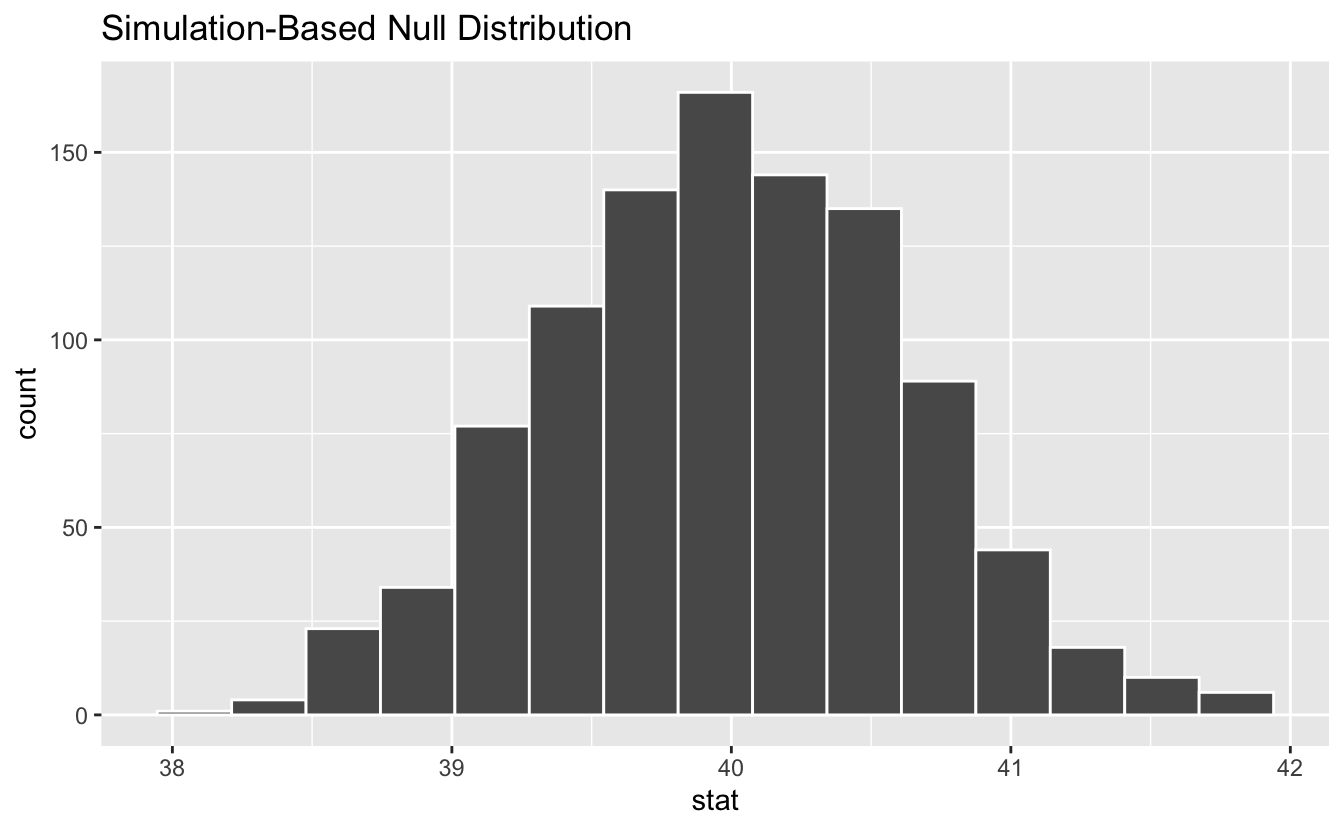
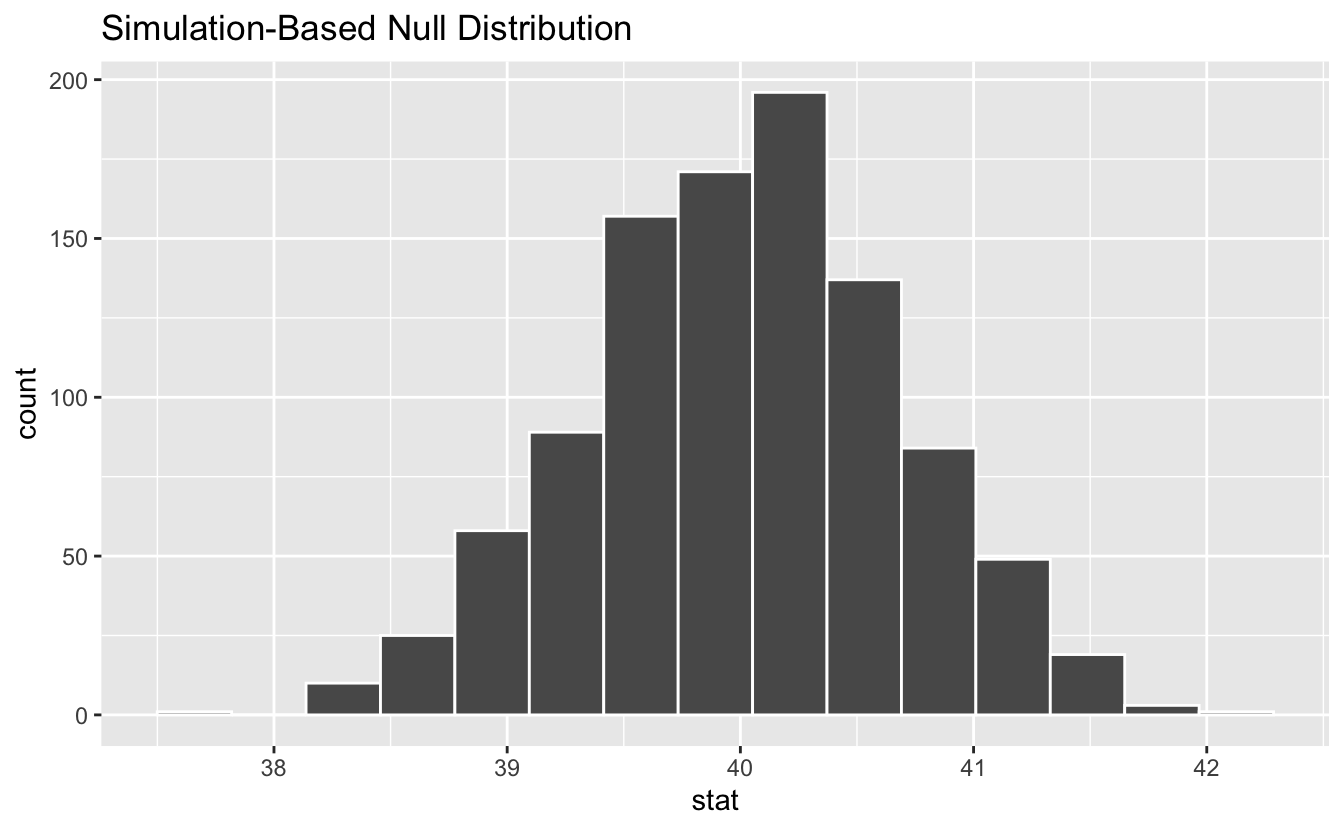
add notes on theoretical methods

diff --git a/content/blog/infer-1-0-0/index.md b/content/blog/infer-1-0-0/index.md
@@ -15,7 +15,7 @@ photo:
 
 categories: [package] 
 tags: [tidymodels]
-rmd_hash: dbb82b02b1cc1daa
+rmd_hash: f3a2ce2335b6bbe8
 
 ---
 
@@ -261,16 +261,16 @@ Continuing on with our example above, about the average number of hours worked a
 <span class='c'>#&gt; <span style='color: #555555;'># Groups:   replicate [1,000]</span></span>
 <span class='c'>#&gt;    replicate hours</span>
 <span class='c'>#&gt;        <span style='color: #555555; font-style: italic;'>&lt;int&gt;</span> <span style='color: #555555; font-style: italic;'>&lt;dbl&gt;</span></span>
-<span class='c'>#&gt; <span style='color: #555555;'> 1</span>         1  38.6</span>
-<span class='c'>#&gt; <span style='color: #555555;'> 2</span>         1  68.6</span>
-<span class='c'>#&gt; <span style='color: #555555;'> 3</span>         1  35.6</span>
-<span class='c'>#&gt; <span style='color: #555555;'> 4</span>         1  48.6</span>
-<span class='c'>#&gt; <span style='color: #555555;'> 5</span>         1  70.6</span>
-<span class='c'>#&gt; <span style='color: #555555;'> 6</span>         1  38.6</span>
-<span class='c'>#&gt; <span style='color: #555555;'> 7</span>         1  21.6</span>
-<span class='c'>#&gt; <span style='color: #555555;'> 8</span>         1  16.6</span>
-<span class='c'>#&gt; <span style='color: #555555;'> 9</span>         1  38.6</span>
-<span class='c'>#&gt; <span style='color: #555555;'>10</span>         1  78.6</span>
+<span class='c'>#&gt; <span style='color: #555555;'> 1</span>         1 40.6 </span>
+<span class='c'>#&gt; <span style='color: #555555;'> 2</span>         1 38.6 </span>
+<span class='c'>#&gt; <span style='color: #555555;'> 3</span>         1 38.6 </span>
+<span class='c'>#&gt; <span style='color: #555555;'> 4</span>         1 38.6 </span>
+<span class='c'>#&gt; <span style='color: #555555;'> 5</span>         1  8.62</span>
+<span class='c'>#&gt; <span style='color: #555555;'> 6</span>         1 78.6 </span>
+<span class='c'>#&gt; <span style='color: #555555;'> 7</span>         1 38.6 </span>
+<span class='c'>#&gt; <span style='color: #555555;'> 8</span>         1 38.6 </span>
+<span class='c'>#&gt; <span style='color: #555555;'> 9</span>         1  1.62</span>
+<span class='c'>#&gt; <span style='color: #555555;'>10</span>         1 38.6 </span>
 <span class='c'>#&gt; <span style='color: #555555;'># … with 499,990 more rows</span></span></code></pre>
 
 </div>
@@ -292,16 +292,16 @@ To generate a null distribution for the independence of two variables, we could 
 <span class='c'>#&gt; <span style='color: #555555;'># Groups:   replicate [1,000]</span></span>
 <span class='c'>#&gt;    partyid   age replicate</span>
 <span class='c'>#&gt;    <span style='color: #555555; font-style: italic;'>&lt;fct&gt;</span>   <span style='color: #555555; font-style: italic;'>&lt;dbl&gt;</span>     <span style='color: #555555; font-style: italic;'>&lt;int&gt;</span></span>
-<span class='c'>#&gt; <span style='color: #555555;'> 1</span> dem        36         1</span>
-<span class='c'>#&gt; <span style='color: #555555;'> 2</span> dem        34         1</span>
-<span class='c'>#&gt; <span style='color: #555555;'> 3</span> dem        24         1</span>
+<span class='c'>#&gt; <span style='color: #555555;'> 1</span> rep        36         1</span>
+<span class='c'>#&gt; <span style='color: #555555;'> 2</span> ind        34         1</span>
+<span class='c'>#&gt; <span style='color: #555555;'> 3</span> ind        24         1</span>
 <span class='c'>#&gt; <span style='color: #555555;'> 4</span> dem        42         1</span>
-<span class='c'>#&gt; <span style='color: #555555;'> 5</span> dem        31         1</span>
-<span class='c'>#&gt; <span style='color: #555555;'> 6</span> ind        32         1</span>
-<span class='c'>#&gt; <span style='color: #555555;'> 7</span> rep        48         1</span>
-<span class='c'>#&gt; <span style='color: #555555;'> 8</span> rep        36         1</span>
-<span class='c'>#&gt; <span style='color: #555555;'> 9</span> rep        30         1</span>
-<span class='c'>#&gt; <span style='color: #555555;'>10</span> rep        33         1</span>
+<span class='c'>#&gt; <span style='color: #555555;'> 5</span> rep        31         1</span>
+<span class='c'>#&gt; <span style='color: #555555;'> 6</span> dem        32         1</span>
+<span class='c'>#&gt; <span style='color: #555555;'> 7</span> ind        48         1</span>
+<span class='c'>#&gt; <span style='color: #555555;'> 8</span> ind        36         1</span>
+<span class='c'>#&gt; <span style='color: #555555;'> 9</span> ind        30         1</span>
+<span class='c'>#&gt; <span style='color: #555555;'>10</span> ind        33         1</span>
 <span class='c'>#&gt; <span style='color: #555555;'># … with 499,990 more rows</span></span></code></pre>
 
 </div>
@@ -320,16 +320,16 @@ Depending on whether you're carrying out computation-based inference or theory-b
 <span class='c'>#&gt; <span style='color: #555555;'># A tibble: 1,000 x 2</span></span>
 <span class='c'>#&gt;    replicate  stat</span>
 <span class='c'>#&gt;        <span style='color: #555555; font-style: italic;'>&lt;int&gt;</span> <span style='color: #555555; font-style: italic;'>&lt;dbl&gt;</span></span>
-<span class='c'>#&gt; <span style='color: #555555;'> 1</span>         1  39.5</span>
-<span class='c'>#&gt; <span style='color: #555555;'> 2</span>         2  41.7</span>
-<span class='c'>#&gt; <span style='color: #555555;'> 3</span>         3  39.3</span>
-<span class='c'>#&gt; <span style='color: #555555;'> 4</span>         4  39.9</span>
-<span class='c'>#&gt; <span style='color: #555555;'> 5</span>         5  41.0</span>
+<span class='c'>#&gt; <span style='color: #555555;'> 1</span>         1  40.1</span>
+<span class='c'>#&gt; <span style='color: #555555;'> 2</span>         2  40.2</span>
+<span class='c'>#&gt; <span style='color: #555555;'> 3</span>         3  40.9</span>
+<span class='c'>#&gt; <span style='color: #555555;'> 4</span>         4  40.6</span>
+<span class='c'>#&gt; <span style='color: #555555;'> 5</span>         5  40.6</span>
 <span class='c'>#&gt; <span style='color: #555555;'> 6</span>         6  40.0</span>
-<span class='c'>#&gt; <span style='color: #555555;'> 7</span>         7  39.2</span>
-<span class='c'>#&gt; <span style='color: #555555;'> 8</span>         8  39.8</span>
-<span class='c'>#&gt; <span style='color: #555555;'> 9</span>         9  40.5</span>
-<span class='c'>#&gt; <span style='color: #555555;'>10</span>        10  40.4</span>
+<span class='c'>#&gt; <span style='color: #555555;'> 7</span>         7  39.6</span>
+<span class='c'>#&gt; <span style='color: #555555;'> 8</span>         8  40.1</span>
+<span class='c'>#&gt; <span style='color: #555555;'> 9</span>         9  41.3</span>
+<span class='c'>#&gt; <span style='color: #555555;'>10</span>        10  42.1</span>
 <span class='c'>#&gt; <span style='color: #555555;'># … with 990 more rows</span></span></code></pre>
 
 </div>
@@ -346,16 +346,16 @@ The output of [`calculate()`](https://infer.tidymodels.org/reference/calculate.h
 <span class='c'>#&gt; <span style='color: #555555;'># A tibble: 1,000 x 2</span></span>
 <span class='c'>#&gt;    replicate    stat</span>
 <span class='c'>#&gt;        <span style='color: #555555; font-style: italic;'>&lt;int&gt;</span>   <span style='color: #555555; font-style: italic;'>&lt;dbl&gt;</span></span>
-<span class='c'>#&gt; <span style='color: #555555;'> 1</span>         1  0.023<span style='text-decoration: underline;'>9</span></span>
-<span class='c'>#&gt; <span style='color: #555555;'> 2</span>         2 -<span style='color: #BB0000;'>1.05</span>  </span>
-<span class='c'>#&gt; <span style='color: #555555;'> 3</span>         3 -<span style='color: #BB0000;'>1.25</span>  </span>
-<span class='c'>#&gt; <span style='color: #555555;'> 4</span>         4  0.632 </span>
-<span class='c'>#&gt; <span style='color: #555555;'> 5</span>         5  0.421 </span>
-<span class='c'>#&gt; <span style='color: #555555;'> 6</span>         6  2.96  </span>
-<span class='c'>#&gt; <span style='color: #555555;'> 7</span>         7 -<span style='color: #BB0000;'>1.14</span>  </span>
-<span class='c'>#&gt; <span style='color: #555555;'> 8</span>         8 -<span style='color: #BB0000;'>0.999</span> </span>
-<span class='c'>#&gt; <span style='color: #555555;'> 9</span>         9 -<span style='color: #BB0000;'>0.620</span> </span>
-<span class='c'>#&gt; <span style='color: #555555;'>10</span>        10 -<span style='color: #BB0000;'>1.65</span>  </span>
+<span class='c'>#&gt; <span style='color: #555555;'> 1</span>         1  0.200 </span>
+<span class='c'>#&gt; <span style='color: #555555;'> 2</span>         2  1.55  </span>
+<span class='c'>#&gt; <span style='color: #555555;'> 3</span>         3  1.85  </span>
+<span class='c'>#&gt; <span style='color: #555555;'> 4</span>         4  2.82  </span>
+<span class='c'>#&gt; <span style='color: #555555;'> 5</span>         5 -<span style='color: #BB0000;'>0.046</span><span style='color: #BB0000; text-decoration: underline;'>6</span></span>
+<span class='c'>#&gt; <span style='color: #555555;'> 6</span>         6 -<span style='color: #BB0000;'>0.434</span> </span>
+<span class='c'>#&gt; <span style='color: #555555;'> 7</span>         7  1.11  </span>
+<span class='c'>#&gt; <span style='color: #555555;'> 8</span>         8  0.385 </span>
+<span class='c'>#&gt; <span style='color: #555555;'> 9</span>         9 -<span style='color: #BB0000;'>1.12</span>  </span>
+<span class='c'>#&gt; <span style='color: #555555;'>10</span>        10  0.465 </span>
 <span class='c'>#&gt; <span style='color: #555555;'># … with 990 more rows</span></span></code></pre>
 
 </div>
@@ -419,11 +419,11 @@ Notice that infer has also shaded the regions of the null distribution that are 
 <span class='c'>#&gt; <span style='color: #555555;'># A tibble: 1 x 1</span></span>
 <span class='c'>#&gt;   p_value</span>
 <span class='c'>#&gt;     <span style='color: #555555; font-style: italic;'>&lt;dbl&gt;</span></span>
-<span class='c'>#&gt; <span style='color: #555555;'>1</span>   0.034</span></code></pre>
+<span class='c'>#&gt; <span style='color: #555555;'>1</span>   0.036</span></code></pre>
 
 </div>
 
-It looks like the p-value is 0.034, which is pretty small---if the true mean number of hours worked per week was actually 40, the probability of our sample mean being this far (1.382 hours) from 40 would be 0.034. This may or may not be statistically significantly different, depending on the significance level $\alpha$ you decided on *before* you ran this analysis. If you had set $\alpha = .05$, then this difference would be statistically significant, but if you had set $\alpha = .01$, then it would not be.
+It looks like the p-value is 0.036, which is pretty small---if the true mean number of hours worked per week was actually 40, the probability of our sample mean being this far (1.382 hours) from 40 would be 0.036. This may or may not be statistically significantly different, depending on the significance level $\alpha$ you decided on *before* you ran this analysis. If you had set $\alpha = .05$, then this difference would be statistically significant, but if you had set $\alpha = .01$, then it would not be.
 
 To get a confidence interval around our estimate, we can write:
 
@@ -440,7 +440,7 @@ To get a confidence interval around our estimate, we can write:
 <span class='c'>#&gt; <span style='color: #555555;'># A tibble: 1 x 2</span></span>
 <span class='c'>#&gt;   lower_ci upper_ci</span>
 <span class='c'>#&gt;      <span style='color: #555555; font-style: italic;'>&lt;dbl&gt;</span>    <span style='color: #555555; font-style: italic;'>&lt;dbl&gt;</span></span>
-<span class='c'>#&gt; <span style='color: #555555;'>1</span>     40.1     42.6</span></code></pre>
+<span class='c'>#&gt; <span style='color: #555555;'>1</span>     40.1     42.7</span></code></pre>
 
 </div>
 
@@ -487,18 +487,18 @@ If passed a [`generate()`](https://infer.tidymodels.org/reference/generate.html)
   <span class='nf'><a href='https://generics.r-lib.org/reference/fit.html'>fit</a></span><span class='o'>(</span><span class='o'>)</span>
 <span class='c'>#&gt; <span style='color: #555555;'># A tibble: 300 x 3</span></span>
 <span class='c'>#&gt; <span style='color: #555555;'># Groups:   replicate [100]</span></span>
-<span class='c'>#&gt;    replicate term          estimate</span>
-<span class='c'>#&gt;        <span style='color: #555555; font-style: italic;'>&lt;int&gt;</span> <span style='color: #555555; font-style: italic;'>&lt;chr&gt;</span>            <span style='color: #555555; font-style: italic;'>&lt;dbl&gt;</span></span>
-<span class='c'>#&gt; <span style='color: #555555;'> 1</span>         1 intercept      42.3   </span>
-<span class='c'>#&gt; <span style='color: #555555;'> 2</span>         1 age            -<span style='color: #BB0000;'>0.029</span><span style='color: #BB0000; text-decoration: underline;'>7</span></span>
-<span class='c'>#&gt; <span style='color: #555555;'> 3</span>         1 collegedegree   0.782 </span>
-<span class='c'>#&gt; <span style='color: #555555;'> 4</span>         2 intercept      43.4   </span>
-<span class='c'>#&gt; <span style='color: #555555;'> 5</span>         2 age            -<span style='color: #BB0000;'>0.047</span><span style='color: #BB0000; text-decoration: underline;'>3</span></span>
-<span class='c'>#&gt; <span style='color: #555555;'> 6</span>         2 collegedegree  -<span style='color: #BB0000;'>0.286</span> </span>
-<span class='c'>#&gt; <span style='color: #555555;'> 7</span>         3 intercept      39.9   </span>
-<span class='c'>#&gt; <span style='color: #555555;'> 8</span>         3 age             0.036<span style='text-decoration: underline;'>6</span></span>
-<span class='c'>#&gt; <span style='color: #555555;'> 9</span>         3 collegedegree  -<span style='color: #BB0000;'>0.056</span><span style='color: #BB0000; text-decoration: underline;'>2</span></span>
-<span class='c'>#&gt; <span style='color: #555555;'>10</span>         4 intercept      42.7   </span>
+<span class='c'>#&gt;    replicate term           estimate</span>
+<span class='c'>#&gt;        <span style='color: #555555; font-style: italic;'>&lt;int&gt;</span> <span style='color: #555555; font-style: italic;'>&lt;chr&gt;</span>             <span style='color: #555555; font-style: italic;'>&lt;dbl&gt;</span></span>
+<span class='c'>#&gt; <span style='color: #555555;'> 1</span>         1 intercept     41.3     </span>
+<span class='c'>#&gt; <span style='color: #555555;'> 2</span>         1 age           -<span style='color: #BB0000;'>0.000</span><span style='color: #BB0000; text-decoration: underline;'>334</span></span>
+<span class='c'>#&gt; <span style='color: #555555;'> 3</span>         1 collegedegree  0.410   </span>
+<span class='c'>#&gt; <span style='color: #555555;'> 4</span>         2 intercept     39.3     </span>
+<span class='c'>#&gt; <span style='color: #555555;'> 5</span>         2 age            0.056<span style='text-decoration: underline;'>4</span>  </span>
+<span class='c'>#&gt; <span style='color: #555555;'> 6</span>         2 collegedegree -<span style='color: #BB0000;'>0.454</span>   </span>
+<span class='c'>#&gt; <span style='color: #555555;'> 7</span>         3 intercept     38.8     </span>
+<span class='c'>#&gt; <span style='color: #555555;'> 8</span>         3 age            0.070<span style='text-decoration: underline;'>7</span>  </span>
+<span class='c'>#&gt; <span style='color: #555555;'> 9</span>         3 collegedegree -<span style='color: #BB0000;'>0.767</span>   </span>
+<span class='c'>#&gt; <span style='color: #555555;'>10</span>         4 intercept     42.7     </span>
 <span class='c'>#&gt; <span style='color: #555555;'># … with 290 more rows</span></span></code></pre>
 
 </div>
@@ -514,18 +514,18 @@ If `type = "permute"`, a set of unquoted column names in the data to permute (in
   <span class='nf'><a href='https://generics.r-lib.org/reference/fit.html'>fit</a></span><span class='o'>(</span><span class='o'>)</span>
 <span class='c'>#&gt; <span style='color: #555555;'># A tibble: 300 x 3</span></span>
 <span class='c'>#&gt; <span style='color: #555555;'># Groups:   replicate [100]</span></span>
-<span class='c'>#&gt;    replicate term          estimate</span>
-<span class='c'>#&gt;        <span style='color: #555555; font-style: italic;'>&lt;int&gt;</span> <span style='color: #555555; font-style: italic;'>&lt;chr&gt;</span>            <span style='color: #555555; font-style: italic;'>&lt;dbl&gt;</span></span>
-<span class='c'>#&gt; <span style='color: #555555;'> 1</span>         1 intercept      41.4   </span>
-<span class='c'>#&gt; <span style='color: #555555;'> 2</span>         1 age             0.015<span style='text-decoration: underline;'>6</span></span>
-<span class='c'>#&gt; <span style='color: #555555;'> 3</span>         1 collegedegree  -<span style='color: #BB0000;'>1.99</span>  </span>
-<span class='c'>#&gt; <span style='color: #555555;'> 4</span>         2 intercept      39.3   </span>
-<span class='c'>#&gt; <span style='color: #555555;'> 5</span>         2 age             0.052<span style='text-decoration: underline;'>4</span></span>
-<span class='c'>#&gt; <span style='color: #555555;'> 6</span>         2 collegedegree  -<span style='color: #BB0000;'>0.087</span><span style='color: #BB0000; text-decoration: underline;'>4</span></span>
-<span class='c'>#&gt; <span style='color: #555555;'> 7</span>         3 intercept      44.8   </span>
-<span class='c'>#&gt; <span style='color: #555555;'> 8</span>         3 age            -<span style='color: #BB0000;'>0.081</span><span style='color: #BB0000; text-decoration: underline;'>2</span></span>
-<span class='c'>#&gt; <span style='color: #555555;'> 9</span>         3 collegedegree  -<span style='color: #BB0000;'>0.489</span> </span>
-<span class='c'>#&gt; <span style='color: #555555;'>10</span>         4 intercept      41.5   </span>
+<span class='c'>#&gt;    replicate term            estimate</span>
+<span class='c'>#&gt;        <span style='color: #555555; font-style: italic;'>&lt;int&gt;</span> <span style='color: #555555; font-style: italic;'>&lt;chr&gt;</span>              <span style='color: #555555; font-style: italic;'>&lt;dbl&gt;</span></span>
+<span class='c'>#&gt; <span style='color: #555555;'> 1</span>         1 intercept     41.4      </span>
+<span class='c'>#&gt; <span style='color: #555555;'> 2</span>         1 age            0.006<span style='text-decoration: underline;'>95</span>  </span>
+<span class='c'>#&gt; <span style='color: #555555;'> 3</span>         1 collegedegree -<span style='color: #BB0000;'>0.948</span>    </span>
+<span class='c'>#&gt; <span style='color: #555555;'> 4</span>         2 intercept     40.1      </span>
+<span class='c'>#&gt; <span style='color: #555555;'> 5</span>         2 age            0.036<span style='text-decoration: underline;'>1</span>   </span>
+<span class='c'>#&gt; <span style='color: #555555;'> 6</span>         2 collegedegree -<span style='color: #BB0000;'>0.360</span>    </span>
+<span class='c'>#&gt; <span style='color: #555555;'> 7</span>         3 intercept     41.0      </span>
+<span class='c'>#&gt; <span style='color: #555555;'> 8</span>         3 age           -<span style='color: #BB0000;'>0.000</span><span style='color: #BB0000; text-decoration: underline;'>094</span><span style='color: #BB0000;'>5</span></span>
+<span class='c'>#&gt; <span style='color: #555555;'> 9</span>         3 collegedegree  1.02     </span>
+<span class='c'>#&gt; <span style='color: #555555;'>10</span>         4 intercept     40.2      </span>
 <span class='c'>#&gt; <span style='color: #555555;'># … with 290 more rows</span></span></code></pre>
 
 </div>
@@ -536,9 +536,101 @@ Each of the auxillary functions [`get_p_value()`](https://infer.tidymodels.org/r
 
 ### Alignment of theory-based methods
 
-While infer is primarily a package for randomization-based statistical inference, the package has partially supported theory-based methods in a number of ways over the years. This release introduces a principled, opinionated, and consistent interface for theory-based methods for statistical inference.
+While infer is primarily a package for randomization-based statistical inference, the package has partially supported theory-based methods in a number of ways over the years. This release introduces a principled, opinionated, and consistent interface for theory-based methods for statistical inference. The new interface is based on a new verb, `assume()`, that returns a null distribution that, once created, interfaces in the same way that simulation-based null distributions do.
 
-\[more here :-)\]
+As an example, we'll work through a full infer pipeline for inference on a mean using infer's `gss` dataset. Supposed that we believe the true mean number of hours worked by Americans in the past week is 40.
+
+First, calculating the observed `t`-statistic:
+
+``` r
+obs_stat <- gss %>%
+  specify(response = hours) %>%
+  hypothesize(null = "point", mu = 40) %>%
+  calculate(stat = "t")
+
+obs_stat
+#> Response: hours (numeric)
+#> Null Hypothesis: point
+#> # A tibble: 1 x 1
+#>    stat
+#>   <dbl>
+#> 1  2.09
+```
+
+The code to define the null distribution is very similar to that required to calculate a theorized observed statistic, switching out [`calculate()`](https://infer.tidymodels.org/reference/calculate.html) for `assume()` and replacing arguments as needed.
+
+``` r
+null_dist <- gss %>%
+  specify(response = hours) %>%
+  hypothesize(null = "point", mu = 40) %>%
+  assume(distribution = "t", df = nrow(gss) - 1)
+
+null_dist 
+#> A T distribution with 499 degrees of freedom.
+```
+
+This null distribution can now be interfaced with in the same way as a simulation-based null distribution elsewhere in the package. For example, calculating a p-value by juxtaposing the observed statistic and null distribution:
+
+``` r
+get_p_value(null_dist, obs_stat, direction = "both")
+#> # A tibble: 1 x 1
+#>   p_value
+#>     <dbl>
+#> 1  0.0376
+```
+
+...or visualizing the null distribution alone:
+
+``` r
+visualize(null_dist)
+```
+
+![](https://i.imgur.com/g3B5coD.png)
+
+...or juxtaposing the two visually:
+
+``` r
+visualize(null_dist) + 
+  shade_p_value(obs_stat, direction = "both")
+```
+
+![](https://i.imgur.com/3C66kgK.png)
+
+Confidence intervals lie in data space rather than the standardized scale of the theoretical distributions. Calculating a mean rather than the standardized `t`-statistic:
+
+``` r
+obs_mean <- gss %>%
+  specify(response = hours) %>%
+  calculate(stat = "mean")
+```
+
+The null distribution here just defines the spread for the standard error calculation.
+
+``` r
+ci <- 
+  get_confidence_interval(
+    null_dist,
+    level = .95,
+    point_estimate = obs_mean
+  )
+
+ci
+#> # A tibble: 1 x 2
+#>   lower_ci upper_ci
+#>      <dbl>    <dbl>
+#> 1     40.1     42.7
+```
+
+Visualizing the confidence interval results in the theoretical distribution being recentered and rescaled to align with the scale of the observed data:
+
+``` r
+visualize(null_dist) + 
+  shade_confidence_interval(ci)
+```
+
+![](https://i.imgur.com/4akSCY3.png)
+
+Previous methods for interfacing with theoretical distributions are superseded---they will continue to be supported, though documentation will forefront the `assume()` interface.
 
 ### Behavioral consistency
 
